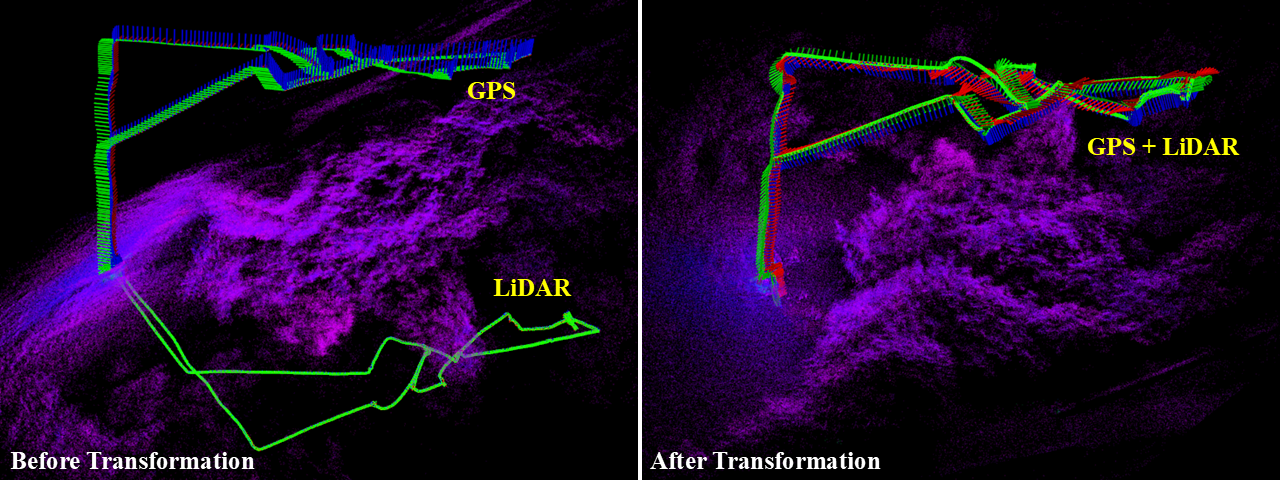
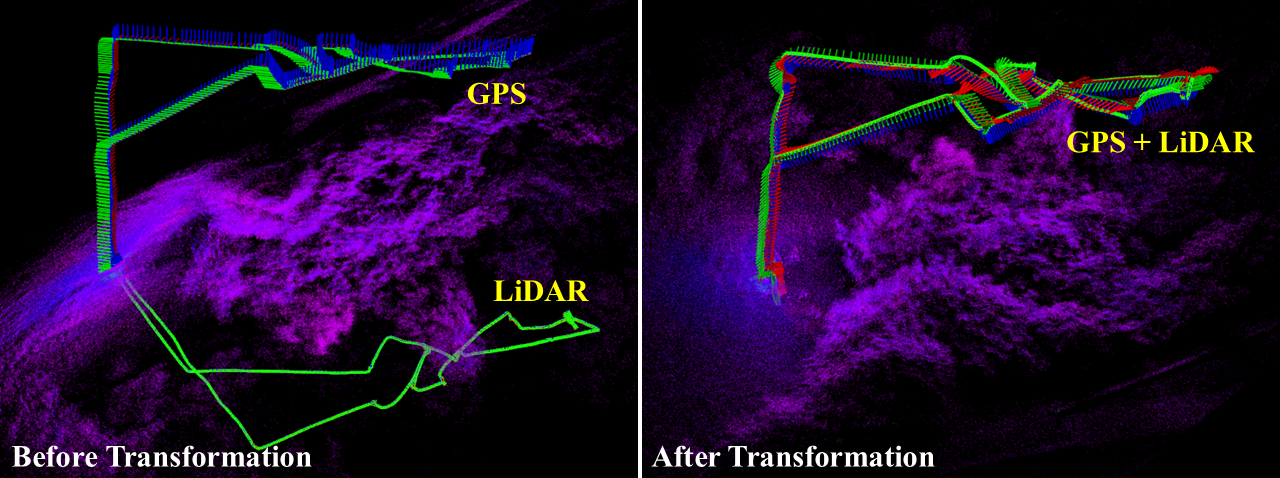
update on methodology

diff --git a/Final_Report.tex b/Final_Report.tex
@@ -1211,6 +1211,8 @@ This project investigates how such SLAM methods can be adapted and deployed for
 real-time forestry applications.
 
 \subsection{Methodology}
+This section describes the methodology adopted to develop the proposed GPS-aided modular SLAM system for UAV remote sensing with the aim to reduce trajectory drift. To achieve this, the methodology is divided into several key components. First, Fast-LIO is used as the front-end odometry to fuse LiDAR and IMU data using an Iterative Extended Kalman Filter (IEKF) for real-time pose estimation and local map generation. Second, back-end optimization SLAM is employed to carry out trajectory refinement and loop closure detection. Third, GPS measurements are incorporated as absolute positioning factors to prevent long-term drift. Fourth, since LiDAR and GPS measurements originate from different sensor frames, frame transformation is carried out to align both data sources into the same coordinate system. Lastly, the complete system architecture is outlined to illustrate how the sensing, front-end estimation, and back-end optimization modules are interacted within the Robotic Operating System (ROS).
+
 \subsubsection{LiDAR-Inertial Odometry}
 For the front end of the modular SLAM system, LiDAR-Inertial Odometry (Fast-LIO)
 is used to build a map effectively within a short amount of time. To do this,
@@ -1322,117 +1324,65 @@ predicted state.
     \cite{faragher2012understanding}.}
 \end{figure}
 
-\subsubsection{Graph-Based SLAM}
-As LiDAR odometry is used in the front end to provide high-rate local pose
-estimates without global constrains, iSAM2 pose graph optimization architecture
-is used for the back end to further optimize the point cloud map for higher
-accuracy. This technique is rooted in factor graph optimization algorithm where
-Maximum A Posteriori (MAP) is also used to factorize the the collective
-posterior distribution of the trajectory state X as shown
-\cite{wen2021factor}:
+\subsubsection{Graph-Based SLAM with GPS}
+As LiDAR odometry is employed in the front end to provide high-rate local pose estimates, it mainly relies on relative motion information and does not include global constraints. Consequently, small scan-matching and motion estimation errors may accumulate over time, leading to trajectory drift and map distortion. This limitation can persist even in LiDAR-based SLAM systems with robust mapping and loop closure, particularly in large-scale environments where relative errors continue to propagate \cite{cwian2021large, chen2022slam}. To address this issue, a back-end optimization framework is employed via implementing graph-based SLAM with loosely coupled GPS measurements. In this case, the graph-based optimizer helps to refine all robot poses over the full trajectory, while GPS data provides absolute positional constraints to anchor the trajectory and improve global consistency.
+
+In graph-based SLAM, bipartite probabilistic graphical model is used to represent the estimation problem in a structured way. Each node of the graph corresponds to the robot pose at a particular time step, typically containing the robot’s position and orientation. In addition, each factor represents a constraint or relationship between one or more pose nodes. This can be derived from available information such as the motion model, LiDAR scan matching, loop closure observations, or GPS measurements. Based on that, the estimation problem can also be expressed using Maximum A Posteriori (MAP) inference to factorize the collective posterior distribution of the trajectory state $X$ as shown \cite{wen2021factor}:
 
 \begin{equation} 
     P(X|Z, U) \propto P(x_0) \prod_{k} P(z_k|x_k) \prod_{k} P(x_k|x_{k-1}, u_{k-1}) 
 \end{equation}
 
-Where $P(x_0)$ is the prior, $P(z_k|x_k)$ represents the Update Factors from
-LiDAR measurements, and $P(x_k|x_{k-1}, u_{k-1})$ represents the Propagation
-Factors derived from the IEKF prediction. The purpose of this is to decompose
-the complex problem of estimating a full trajectory into smaller, simpler pieces
-called 'factors'. By breaking down the trajectory into these discrete
-components, this allows iSAM2 to optimize specific parts of the trajectory
-affected by new information or loop closures instead of resolving the entire
-global map every time the robot moves. This ensures that global consistency is
-maintained without the computational burden of a full-batch optimization.
+where $P(x_0)$ is the prior distribution of the initial pose, $P(z_k|x_k)$ represents observation factors such as GPS measurements, and $P(x_k|x_{k-1}, u_{k-1})$ represents odometry factors derived from the relative pose estimates of the front-end LiDAR odometry. 
 
-To do this, the Gaussian noise is factorized into exponential functions. Unlike
-a standard filter that only estimates the current state $x_k$, the factorized
-graph maintains the entire trajectory history $X$ = ($x_0, x_1, \dots, x_k$) to
-minimize the sum of squared errors. The Gaussian noise from the IEKF motion
-prediction is expressed as:
+Assuming Gaussian noise, the odometry and observation factors can be expressed in exponential form. Unlike a standard filter that only estimates the current state $x_k$, the factorized graph maintains the entire trajectory history $X$ = ($x_0, x_1, \dots, x_k$) to minimize the sum of squared errors. Hence, the odometry factor between two consecutive poses is written as
 \begin{equation}
     P(x_k|x_{k-1},u_{k-1}) = \exp(-||f_k(x_{k-1}, u_k)-x_k||^2_{\Sigma_{u,k}})
 \end{equation}
 
-Similarly, the Gaussian noise from LiDAR measurements is factorized into the following equation:
+where $f_k(x_{k-1}, u_k)$ indicates the relative motion estimate from the front-end LiDAR odometry and $\Sigma_{u,k}$ represents its covariance. Similarly for the observation factor, which correspond to the GPS measurements can be written as:
 \begin{equation}
-    P(z_k | x_k) = \exp(-||h_k(x_k) - z_k||^2_{\Sigma_{z,k}})
+    P(z_k^{gps}|x_k) = \exp\left(-\|p_k - z_k^{gps}\|^2_{\Sigma_{gps,k}}\right)
 \end{equation}
 
-The factorization is crucial to transform MAP estimation from a product
-of probability distributions into a Non-linear Least Squares (NLS) optimization
-problem. By taking the negative logarithm of the posterior, we convert the task
-of finding the maximum probability into finding the minimum of an error function
-$e(\mathcal{X})$ as shown:
-\begin{equation}
-    \hat{\chi} = \arg\max_{\chi} \prod_{k} F_k(x_k) = \arg\min_{\chi} e(\chi)
-\end{equation}
-\begin{equation}
-    e(\chi) \doteq \sum_{k} ||h_k(x_k) - z_k||^2_{\Sigma_k} + \sum_{k} ||f_k(x_{k-1}, u_k) - x_k||^2_{\Sigma_k}
+where $p_k$ is the estimated robot's position in the SLAM calculation, $z_k^{gps}$ is the GPS position measurement at time step $k$, and $\Sigma_{gps,k}$ is the covariance associated with the GPS measurement. 
+
+By taking the negative logarithm of the posterior distribution, the MAP problem is converted into a nonlinear least-squares optimization problem:
+\begin{equation} \label{arg_min}
+    \hat{\chi} = \arg\max_{\chi} \prod_{k} F_k(x_k) = \arg\min_{\chi} F(\chi)
 \end{equation}
 
-To solve the non-linear least squares problem defined by $e(\mathcal{X})$, the
-system iteratively refines the trajectory estimate to find the optimal solution
-$\hat{\mathcal{X}}$. The error function is linearized using a first-order Taylor
-expansion at the current estimate $\mathcal{X}^{(i)}$ where the state is
-then uploaded incrementally:
+Based on Equation \eqref{arg_min}, it evaluates how well the estimated trajectory satisfies both the relative LiDAR odometry constraints and the absolute GPS constraints. In the specific case of LiDAR odometry and GPS fusion, the cost function represents the total error in the estimated trajectory where the optimization aims to find the state $X$ that minimizes this error. Thus, the equation can be written as shown:
 \begin{equation}
-    \mathcal{X}^{(i+1)} = \mathcal{X}^{(i)} + \Delta \mathcal{X}
-\end{equation}
-
-Where $\Delta \mathcal{X}$ is the calculation for minimizing the error. This
-optimization process relies on the Jacobian matrix $\mathbf{J}_R$ to linearize
-the state variables as shown:
-
-\begin{equation}
-    \mathbf{J}_R = \frac{\partial(\mathbf{H}(\mathcal{X}) - \mathbf{Z})}{\partial \mathcal{X}} + \frac{\partial(\mathbf{F}(\mathcal{X}, \mathbf{U}) - \mathcal{X})}{\partial \mathcal{X}}
-\end{equation}
-
-Where $\mathbf{H}(\mathcal{X}) - \mathbf{Z}$ is the measurement residuals and
-$\mathbf{F}(\mathcal{X}, \mathbf{U}) - \mathcal{X}$ is the predictive propagation
-model. By setting the gradient of the error function to zero, the system solves
-for $\Delta \mathcal{X}$ through the normal equations using the Gauss-Newton
-method. Unlike the IEKF, which only iterates on the current state at time $k$,
-this graph-based optimization allows the system to re-linearize the entire
-trajectory history to ensure local sensor noise does not lead to permanent
-global map distortion. 
-
-\subsubsection{GPS Correction}
-Since LiDAR based SLAM system relies on relative measurements to estimate motion, this method is prone to trajectory drift if errors such as inaccuracy in pose incrementation and accumulation of non-collective uncertainty occurs during the computation \cite{cwian2021large, chen2022slam}. 
-
-To counter this issue, GPS is added to the pose graph optimization SLAM system to provide absolute global positioning by detecting receiver’s location relative to a known Earth-centered reference coordinate system from satellite signals. The presence of GPS will then acts as an anchor to avoid the LiDAR SLAM from drifting due to relative positioning errors.
-
-For the purpose of incorporating GPS into the pose graph optimization SLAM, GPS measurements is treated as a constraint on a single node where error $\mathbf{h}_k$ for GPS measurements at time instant $k$ is obtained by taking the difference between the robot estimated position $\mathbf{p}_k$ and the GPS measurement $\mathbf{z}^{\mathrm{gps}}_k$:
-\begin{equation}
-\mathbf{h}_k(x_k) = \mathbf{z}^{\mathrm{gps}}_k - \mathbf{p}_k
-\end{equation}
-
-Where $x_k$ is the status of the robot at time $k$ and $\mathbf{z}^{\mathrm{gps}}_k$ is the GPS position measurement in the local frame. The error $\mathbf{h}_k$ is then used to obtain the cost function $F(X)$ of the pose graph optimization system which evaluates how well the estimated robot trajectory agrees with botht the relative LiDAR constraints and the absolute GPS measurements: 
-\begin{equation}
-F(X)=\sum_i \left\| h_{i,i+1} \right\|^2_{\Omega_{odom}}
+F(X)=\sum_i \left\| e_{i,i+1} \right\|^2_{\Omega_{odom}}
 \;+\;
 \sum_k \left\| z_k^{gps} - p_k \right\|^2_{\Omega_{gps}}
 \end{equation}
 
-Letting $\mathbf{e}_{i,i+1}$ denote the error between the LiDAR measurement and the robot's estimation. Meanwhile, $\Omega_{odom}$ is the information matrix representing the uncertainty of LiDAR odometry and $\Omega_{gps}$ is the information matrix of GPS uncertainty. These matrices determine how much influence each measurement source has in the optimization process based on its level of uncertainty. Measurements with lower uncertainty are given higher influence during optimization, while noisier measurements contribute less to the final solution. 
+where $e_{i,i+1}$ denotes the residual associated with LiDAR odometry factor between two consecutive poses. This indicates the mismatch between the relative motion estimated by the front-end LiDAR odometry and the relative displacement implied by the optimized poses. Meanwhile, $\Omega_{odom}$ is the information matrix representing the uncertainty of LiDAR odometry and $\Omega_{gps}$ is the information matrix of GPS uncertainty. These matrices are then used to determine how much influence each measurement source has in the optimization process. Measurements with lower uncertainty are given higher influence during optimization, while noisier measurements contribute less to the final solution. 
 
-Since the total cost function $F(X)$ is generally nonlinear with respect to the robot states, iterative nonlinear least-squares methods are used to solve this problem. Based on that, Levenberg-Marquardt algorithm is a standard optimization method used to iteratively solve for the trajectory update using the Jacobian matrix \cite{ranganathan2004levenberg}. In each iteration, the nonlinear error function is linearized around the current state estimate and an increment $\Delta X$ is computed to update the pose estimate until convergence is achieved. The state update $\Delta X$ can be expressed as:
+Since the total cost function $F(X)$ is generally nonlinear with respect to the robot states, iterative nonlinear least-squares methods are used to solve this problem by using Levenberg-Marquardt algorithm. It is a standard optimization method used to iteratively solve for the trajectory update using the Jacobian matrix \cite{ranganathan2004levenberg}. In each iteration, the nonlinear error function is linearized around the current state estimate and an increment $\Delta X$ is computed to update the pose estimate until convergence is achieved. The state update $\Delta X$ can be expressed as:
 \begin{equation}
 \Delta X = -(J^T \Omega J + \lambda \text{diag}(J^T \Omega J))^{-1} J^T \Omega e
 \end{equation}
 
-Where the residual $e$ denotes the error between the LiDAR odometry and GPS measurement, the Jacobian $J$ denotes the first-order partial derivatives of the residuals $e$ with respect to state variable $X$, the information matrix $\Omega$ represents the global stacked information matrix containing all measurement weights, and the damping factor $\lambda$ is used to regulate the update step by balancing the behavior between the Gauss-Newton method and gradient descent. Once the state update $\Delta X$ is calculated, it can be used to calculate the new state estimate, resulting in higher SLAM accuracy.
+where the residual $e$ denotes the error between the LiDAR odometry and GPS measurement, the Jacobian $J$ denotes the first-order partial derivatives of the residuals $e$ with respect to state variable $X$, the information matrix $\Omega$ represents the global stacked information matrix containing all measurement weights, and the damping factor $\lambda$ is used to regulate the update step by balancing the behavior between the Gauss-Newton method and gradient descent. Once the state update $\Delta X$ is calculated, it can be used to calculate the new state estimate, resulting in higher SLAM accuracy.
 \begin{equation}
-X^{(t+1)} = X^{(t)} + \Delta X.
+    \mathcal{X}^{(i+1)} = \mathcal{X}^{(i)} + \Delta \mathcal{X}
 \end{equation}
 
-Even though Levenberg-Marquardt algorithm is able to solve the whole robot's trajectory at once, the matrices can get too large to invert in real-time if the robot continues to drive. Therefore, the actual implementation uses iSAM2 which converts the mathematical problem into Bayes Tree to perform incremental updates in real time more efficiently \cite{kaess2012isam2}.
+Even though Levenberg-Marquardt algorithm is able to solve the whole robot's trajectory at once, the matrices can get too large to invert in real-time if the robot continues to drive. Therefore, the actual implementation uses iSAM2 which converts the mathematical problem into Bayes Tree to perform incremental updates in real time more efficiently \cite{kaess2012isam2}. With that, only the affected portions of the factor graph are updated when new LiDAR odometry, GPS observations, or loop closure constraints are introduced, thereby reducing computational complexity while preserving estimation accuracy during real-time operation.
 
+The iterative optimization process described above is summarized in Figure \ref{fig:pgo_framework}. Starting from the current trajectory estimate, the total residual error is evaluated and nonlinear system is linearized around the operating point. A correction term is then solved and used to update the state estimate. This procedure is repeated until convergence is achieved to form a progressively refined trajectory.
 \begin{figure}[H]
     \centering
     \includegraphics[width=0.4\textwidth]{Included_Images/gps_correction.png}
     \caption{Flowchart showcasing the iterative optimization loop for updating the robot state estimate}
+    \label{fig:pgo_framework}
 \end{figure}
+
+As a result, the proposed loosely coupled LiDAR-GPS graph-based SLAM framework combines the short-term local accuracy of LiDAR odometry with the long-term global stability of GPS measurements. This enables the robot to generate a globally consistent map while maintaining robust localization performance in large-scale outdoor environments.
+
 
 \subsubsection{Frame Transformation}
 With the aim of performing GPS correction in a pose graph SLAM system, LiDAR and GPS must be in the same coordinate frame in order to enable consistent comparison and fusion of their measurements during optimization. However, since the LiDAR sensor and GPS antenna are mounted at different physical location on the UAV, the relative transformation between the LiDAR and GPS coordinate frames must first be determined so that their measurements can be transformed into a common reference frame before GPS constraints are incorporated into the pose graph optimization process.
@@ -1445,7 +1395,6 @@ With the aim of performing GPS correction in a pose graph SLAM system, LiDAR and
 Frame transformation consist of rotational and translational components that describe the relative orientation and positional offset between two coordinate frames. As the translational difference between LiDAR and GPS are at centimeter level which is insignificant within the SLAM system, only rotational transformation will be focused in this case. 
 
 To effectively perform frame transformation between two sensors, it is first necessary to determine how the coordinate frame axes are defined within the system. This was achieved by applying rotational offsets independently about each principal axis then observe the resulting change in sensor orientation. By isolating each rotational component, the direction and convention of rotation for each axis could be identified as shown in Figure \ref{fig:SLAM_axis}.
-
 \begin{figure}[H]
     \centering
     \includegraphics[width=0.7\textwidth]{Included_Images/SLAM_axis.png}
@@ -1456,6 +1405,11 @@ To effectively perform frame transformation between two sensors, it is first nec
 Meanwhile, as GPS only provide translational data such as longitude, latitude, and altitude, additional IMU which is located at the same position as the GPS antenna, is used to provide the rotational information for GPS measurement, creating a complete 6-DoF pose representation required for accurate frame transformation. Based on that, extrinsic calibration is carried out between the GPS/IMU and LiDAR/IMU systems to obtain the relative rotation between two sensor frames \cite{lidar_imu_init}. The calibration results indicate that there is a rotational offset of $145.98^\circ$ in roll, $90.0^\circ$ in yaw, and no rotational offset in pitch between the GPS and LiDAR frames. 
 
 In an effort to implement the calibration results into the SLAM framework, the absolute initial heading of the LiDAR must be determined at the start of the system. This is because the LiDAR odometry defines its origin as $0^\circ$ based on the initial orientation of the UAV. Conversely, the GPS/IMU system operates in a global reference frame which is aware of the heading of East, West, North, and South, resulting in the initial orientation of GPS/IMU generally being nonzero. This creates an unknown rotational offset between the LiDAR local frame and the global navigation frame.
+\begin{figure}[H]
+    \centering
+    \includegraphics[width=0.8\textwidth]{Included_Images/frame_trans.png}
+    \caption{Illustration of the frame reference frame of GPS and LiDAR}
+\end{figure}
 
 To bridge this gap, initial IMU's global orientation from the GPS is captured at system startup and its represented as quaternion $Q_{imu\_global}$. Even so, given that GPS/IMU is rigidly attached to the LiDAR sensor via a known extrinsic calibration, its orientation must be corrected by the previously determined fixed transformation between the IMU and LiDAR frames where the transformation is represented as $Q_{imu\_to\_lidar}$. Thus, the absolute orientation of LiDAR with respect to global coordinate frame $Q_{lidar\_global}$ is therefore computed via quaternion multiplication chain:
 \begin{equation}
@@ -1472,12 +1426,6 @@ where $R_x(\theta_{roll})$ is the fixed roll rotation of $145.98^\circ$ and $R_z
 
 \begin{figure}[H]
     \centering
-    \includegraphics[width=0.8\textwidth]{Included_Images/frame_trans.png}
-    \caption{Illustration of the frame transformation from GPS to LiDAR}
-\end{figure}
-
-\begin{figure}[H]
-    \centering
     \includegraphics[width=1.0\textwidth]{Included_Images/transformation_result.png}
     \caption{Comparison of SLAM system before and after frame transformation}
 \end{figure}
@@ -1490,81 +1438,13 @@ Optimization (PGO) coupled with GPS is used for the back end. During
 implementation, both Fast-LIO and PGO are initialized. The point cloud data will
 first be processed by Fast-LIO to create an odometry, and the odometry will then
 be passed to the PGO to further optimize the point clouds to increase accuracy.
-In the meantime, GPS data is passed into PGO to provide constraints to the SLAM
-if large drifts occur. 
-
+In the meantime, GPS data is passed into PGO to provide constraints to the SLAM system.
 \begin{figure}[H]
     \centering
-    \includegraphics[width=0.7\textwidth]{Included_Images/SLAM flowchart.png}
+    \includegraphics[width=0.75\textwidth]{Included_Images/SLAM flowchart.png}
     \caption{Flowchart of the modular SLAM system}
 \end{figure}
-This project builds upon an open-source implementation
-that integrates Fast-LIO with PGO for GPS-aided SLAM:
-\url{https://github.com/yxw027/FAST_LIO_GPS}. The pseudocode of the front-end and back-end of the modular SLAM can be shown below:
-{
-    \singlespacing
-    \begin{algorithm}[H]
-    \caption{Front-End: FAST-LIO with MAVLink TimeSync}
-    \begin{algorithmic}[1]
-    \State \textbf{Initialize:} IEKF state $\mathbf{x}$ and covariance $\mathbf{P}$
-    \State \textbf{Initialize:} ikd-Tree for incremental mapping
-    \While{ROS is active}
-        \State Sync LiDAR and IMU buffers based on GPS-aligned timestamps
-        \If{IMU not initialized}
-            \State Perform \textit{IMU\_init} (Gravity/Bias estimation)
-            \State \textbf{continue}
-        \EndIf
-        \State \textbf{State Prediction:} $\hat{\mathbf{x}} \leftarrow$ IMU forward propagation
-        \State \textbf{Undistortion:} Compensate point motion using $\hat{\mathbf{x}}$
-        \For{$iter = 1$ \textbf{to} $NUM\_MAX\_ITERATIONS$}
-            \State Find point-to-plane correspondences in ikd-Tree
-            \State Compute measurement residual $\mathbf{z}$ and Jacobian $\mathbf{H}$
-            \State \textbf{Update:} Correct state $\mathbf{x}$ using IEKF update rule
-            \If{converged} \State \textbf{break} \EndIf
-        \EndFor
-        \State \textbf{ikd-Tree Update:} Add new features to the spatial map
-        \State Publish Odometry to Back-End
-    \EndWhile
-    \end{algorithmic}
-    \end{algorithm}
-}
-{
-    \singlespacing
-    \begin{algorithm}[H]
-    \caption{Back-End Pose Graph Optimization (PGO)}
-    \begin{algorithmic}[1]
-    \State \textbf{Initialize:} GTSAM Factor Graph and ISAM2 optimizer
-    \State \textbf{Initialize:} Noise models (Odometry, GPS, Loop Closure)
-    \While{ROS is active}
-        \If{New Front-End Odometry received}
-            \State Calculate delta movement since last Keyframe
-            \If{movement $>$ $KeyframeThreshold$}
-                \State Create new Node $n_t$ in Pose Graph
-                \State \textbf{Propagation Factor:} Add \textit{BetweenFactor}($x_{k-1}, x_k, \Delta Odom$)
-                \If{GPS matched for $n_t$}
-                    \State Transform GPS Lat/Lon to UTM coordinates
-                    \State \textbf{GPS Factor:} Add \textit{GPSFactor}($x_k, UTM_{xyz}$)
-                \EndIf
-                \State \textbf{Loop Closure:} Search for matches using Scan Context
-                \If{Loop detected with $n_{\text{old}}$}
-                    \State Calculate relative transform via ICP
-                    \State \textbf{Loop Factor:} Add \textit{BetweenFactor}($x_{\text{old}}, x_t, T_{\text{ICP}}$)
-                \EndIf
-                \State Perform ISAM2 global optimization
-                \State Update trajectory with optimized poses
-            \EndIf
-        \EndIf
-    \EndWhile
-    \end{algorithmic}
-    \end{algorithm}
-}
 
-\begin{figure}[H]
-    \centering
-    \includegraphics[width=0.8\textwidth]{Included_Images/rqt_graph.png}
-    \caption{Interactions of different ROS topics in the SLAM system}
-    \label{fig:rqt}
-\end{figure}
 
 Based on Figure \ref{fig:rqt}, the system can be divided into sensor drivers, the front-end
 LiDAR odometry, and back-end pose graph optimization (PGO) component. At the
@@ -1582,7 +1462,7 @@ The sensor data is then passed to the front-end LiDAR odometry (Fast-LIO) in the
     \item \texttt{/cloud\_registered\_body}: Point clouds in the body frame.
 \end{itemize}
 
-Afterward, topics including /Odometry and /path from Fast-LIO LiDAR Odometry,
+Afterwards, topics including /Odometry and /path from Fast-LIO LiDAR Odometry,
 /cloud\_ registered\_body from /laserMapping, and GPS and IMU information from
 Pixhawk are passed to the back end pose graph optimization SLAM under
 /laserPGO\_gps namespace. The optimized results are published as:
@@ -1593,6 +1473,12 @@ Pixhawk are passed to the back end pose graph optimization SLAM under
     \item \texttt{/aft\_pgo\_map}: Optimized global map.
     \item \texttt{/loop\_scan\_local} and \texttt{/loop\_submap\_local}: Data used for loop closure and local map refinement.
 \end{itemize}
+\begin{figure}[H]
+    \centering
+    \includegraphics[width=0.9\textwidth]{Included_Images/rqt_graph.png}
+    \caption{Interactions of different ROS topics in the SLAM system}
+    \label{fig:rqt}
+\end{figure}
 
 \subsection{Results and Discussion}
 \subsubsection{Stage 1: Modular SLAM Implementation without GPS}
@@ -2935,9 +2821,87 @@ aligns with different frameworks of this project. Specifically:
     \item GNSS-R: \url{https://github.com/zhlouise/UAV_GNSS-R}
     \item Machine Learning: \url{https://github.com/gd-Sahat/FYP-ML/tree/main}
     \item Path Planning: \url{https://github.com/sashenkagamage/canopix.ai} 
-    \item LiDAR SLAM: \url{https://github.com/A4paper2003/scpgo-workspace/tree/main}
+    \item LiDAR SLAM: \url{https://github.com/A4paper2003/catkin_scpgo_ws}
 \end{itemize}
 
+\subsubsection*{LiDAR SLAM Pseudocode}
+This project builds upon an open-source implementation
+that integrates Fast-LIO with PGO for GPS-aided SLAM:
+\url{https://github.com/yxw027/FAST_LIO_GPS}. The pseudocode of the front-end and back-end of the modular SLAM can be shown below:
+{
+    \singlespacing
+    \begin{algorithm}[H]
+    \caption{Front-End: FAST-LIO with MAVLink TimeSync}
+    \begin{algorithmic}[1]
+    \State \textbf{Initialize:} IEKF state $\mathbf{x}$ and covariance $\mathbf{P}$
+    \State \textbf{Initialize:} ikd-Tree for incremental mapping
+    \While{ROS is active}
+        \State Sync LiDAR and IMU buffers based on GPS-aligned timestamps
+        \If{IMU not initialized}
+            \State Perform \textit{IMU\_init} (Gravity/Bias estimation)
+            \State \textbf{continue}
+        \EndIf
+        \State \textbf{State Prediction:} $\hat{\mathbf{x}} \leftarrow$ IMU forward propagation
+        \State \textbf{Undistortion:} Compensate point motion using $\hat{\mathbf{x}}$
+        \For{$iter = 1$ \textbf{to} $NUM\_MAX\_ITERATIONS$}
+            \State Find point-to-plane correspondences in ikd-Tree
+            \State Compute measurement residual $\mathbf{z}$ and Jacobian $\mathbf{H}$
+            \State \textbf{Update:} Correct state $\mathbf{x}$ using IEKF update rule
+            \If{converged} \State \textbf{break} \EndIf
+        \EndFor
+        \State \textbf{ikd-Tree Update:} Add new features to the spatial map
+        \State Publish Odometry to Back-End
+    \EndWhile
+    \end{algorithmic}
+    \end{algorithm}
+}
+{
+    \singlespacing
+    \begin{algorithm}[H]
+    \caption{Back-End Pose Graph Optimization (PGO)}
+    \begin{algorithmic}[1]
+    \State \textbf{Initialize:} GTSAM Factor Graph and ISAM2 optimizer
+    \State \textbf{Initialize:} Noise models (Odometry, robust GPS, robust Loop)
+    \State \textbf{Initialize:} $\text{initial\_z\_yaw}$ as undefined
+    \While{ROS is active}
+        \State \textbf{Thread 1: Graph Construction (process\_pg)}
+        \If{New synchronized Odometry, Point Cloud, and IMU received}
+            \State Calculate $\Delta$ movement ($\Delta T, \Delta R$) since last Keyframe
+            \If{$\Delta T > \text{KeyframeMeterGap}$ \textbf{or} $\Delta R > \text{KeyframeRadGap}$}
+                \State Create new Node $n_k$ in Pose Graph
+                \State Generate and save Scan Context for $n_k$
+                \State \textbf{Odometry Factor:} Add \textit{BetweenFactor}($n_{k-1}, n_k, \Delta\text{Odom}$)
+                
+                \If{GPS matched for $n_k$}
+                    \State Convert GPS Lat/Lon/Alt to local Cartesian $UTM_{xyz}$
+                    \If{$\text{initial\_z\_yaw}$ is undefined}
+                        \State Compute and store absolute initial heading from IMU
+                    \EndIf
+                    \State Apply $Z$-yaw and $X$-tilt offset matrices to $UTM_{xyz}$
+                    \If{GPS $X,Y$ covariance $\leq 0.5$}
+                        \State \textbf{GPS Factor:} Add 3D \textit{GPSFactor}($n_k, UTM_{x,y,z}$)
+                    \Else
+                        \State \textbf{GPS Factor:} Add 1D \textit{GPSFactor}($n_k, UTM_z$) \Comment{Trust $Z$-axis only}
+                    \EndIf
+                \EndIf
+            \EndIf
+        \EndIf
+
+        \State \textbf{Thread 2: Loop Closure \& ICP (process\_lcd \& process\_icp)}
+        \State Search for historical matches using Scan Context
+        \If{Loop candidate detected with historical node $n_{\text{old}}$}
+            \State Compute relative transform via ICP
+            \If{ICP fitness score $<$ Threshold}
+                \State \textbf{Loop Factor:} Add \textit{BetweenFactor}($n_{\text{old}}, n_k, T_{\text{ICP}}$)
+            \EndIf
+        \EndIf
+        \State \textbf{Thread 3: Optimization (process\_isam)}
+        \State Perform ISAM2 global optimization (\textit{update()} graph \& estimates)
+        \State Update global trajectory with optimized poses
+    \EndWhile
+    \end{algorithmic}
+    \end{algorithm}
+}
 
 % --- References ---
 \newpage
